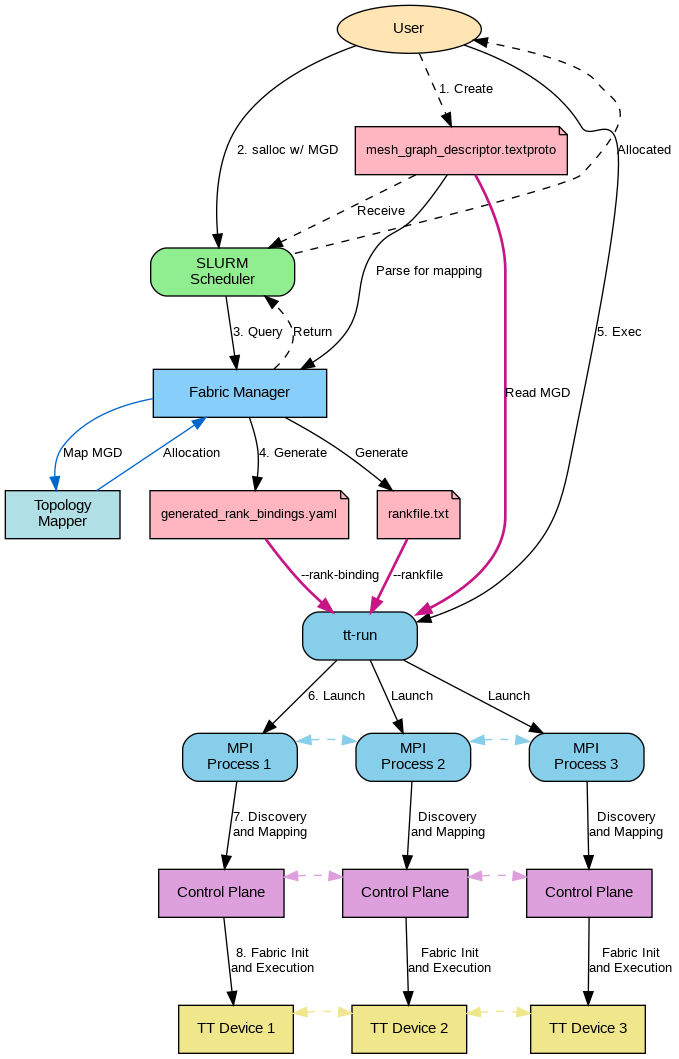
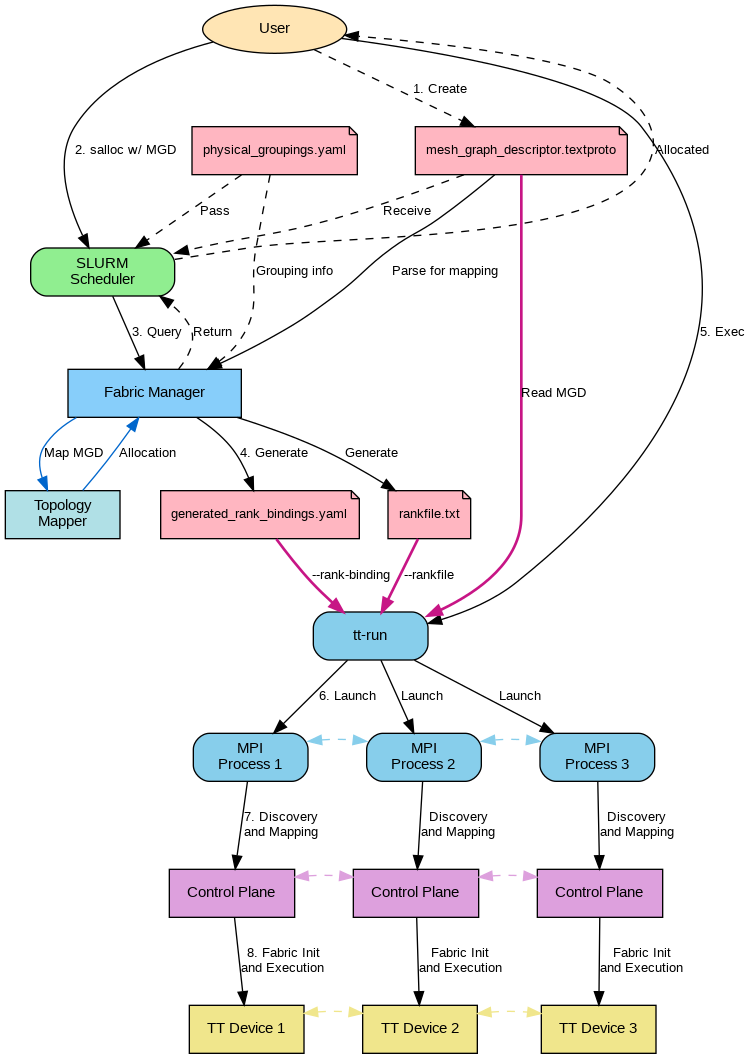
Add topology mapper docs

diff --git a/tech_reports/multi_mesh_fabric_init/generate_diagram3.py b/tech_reports/multi_mesh_fabric_init/generate_diagram3.py
@@ -12,6 +12,7 @@ dot.attr("edge", fontsize="10", fontname="Arial")
 # --- Nodes ---
 
 dot.node("User", "User", shape="ellipse", style="filled", fillcolor="#FFE5B4", width="1.5")
+dot.node("Groupings", "physical_groupings.yaml", shape="note", style="filled", fillcolor="#FFB6C1", fontsize="10")
 dot.node(
     "MGD_Input", "mesh_graph_descriptor.textproto", shape="note", style="filled", fillcolor="#FFB6C1", fontsize="10"
 )
@@ -57,9 +58,10 @@ with dot.subgraph() as r1:
     r1.attr(rank="same")
     r1.node("User")
 
-# Rank 2: MGD
+# Rank 2: Groupings and MGD (Groupings on left)
 with dot.subgraph() as r2:
     r2.attr(rank="same")
+    r2.node("Groupings")
     r2.node("MGD_Input")
 
 # Rank 3: SLURM
@@ -99,8 +101,9 @@ with dot.subgraph() as r8:
     r8.node("Device3")
 
 # --- Vertical Alignment (Invisible) ---
-# Main column: User -> MGD -> SLURM -> FM -> Agents -> Devices
-dot.edge("User", "MGD_Input", style="invis")
+# Main column: User -> Groupings -> MGD -> SLURM -> FM -> Agents -> Devices
+dot.edge("User", "Groupings", style="invis")
+dot.edge("Groupings", "MGD_Input", style="invis")
 dot.edge("MGD_Input", "SLURM", style="invis")
 dot.edge("SLURM", "FM", style="invis")
 dot.edge("FM", "Agent2", style="invis")  # Center agent
@@ -110,6 +113,7 @@ dot.edge("Agent2", "Device2", style="invis")  # Center device
 dot.edge("TTRun", "MPI2", style="invis")  # tt-run above center MPI (maintains vertical spacing)
 
 # Horizontal alignment within groups
+dot.edge("Groupings", "MGD_Input", style="invis")
 dot.edge("Agent1", "Agent2", style="invis")
 dot.edge("Agent2", "Agent3", style="invis")
 dot.edge("MPI1", "MPI2", style="invis")
@@ -126,8 +130,10 @@ dot.edge("Agent3", "TTRun", style="invis")  # Separate left and right columns
 dot.edge("User", "MGD_Input", label="1. Create", style="dashed")
 dot.edge("User", "SLURM", label="2. srun w/ MGD")
 dot.edge("MGD_Input", "SLURM", label="Receive", style="dashed", constraint="false")
+dot.edge("Groupings", "SLURM", label="Pass", style="dashed", constraint="false")
 dot.edge("SLURM", "FM", label="3. Query")
 dot.edge("MGD_Input", "FM", label="Parse for mapping", constraint="false")
+dot.edge("Groupings", "FM", label="Grouping info", style="dashed", constraint="false")
 
 # FM bidirectional gRPC communication with all Fabric Agents
 dot.edge("FM", "Agent1", label="4. gRPC", dir="both", color="#006400", penwidth="2.0")

diff --git a/tech_reports/multi_mesh_fabric_init/generate_diagram2.py b/tech_reports/multi_mesh_fabric_init/generate_diagram2.py
@@ -23,6 +23,7 @@ with dot.subgraph(name="cluster_FM_System") as fm_sys:
     dot.edge("FM", "Topo", label="Map MGD", style="solid", color="#0066CC")
     dot.edge("Topo", "FM", label="Allocation", style="solid", color="#0066CC")
 
+dot.node("Groupings", "physical_groupings.yaml", shape="note", style="filled", fillcolor="#FFB6C1", fontsize="10")
 dot.node(
     "MGD_Input", "mesh_graph_descriptor.textproto", shape="note", style="filled", fillcolor="#FFB6C1", fontsize="10"
 )
@@ -57,9 +58,10 @@ with dot.subgraph() as r1:
     r1.attr(rank="same")
     r1.node("User")
 
-# Rank 2: MGD
+# Rank 2: Groupings and MGD (Groupings on left)
 with dot.subgraph() as r2:
     r2.attr(rank="same")
+    r2.node("Groupings")
     r2.node("MGD_Input")
 
 # Rank 3: SLURM
@@ -105,7 +107,8 @@ with dot.subgraph() as r9:
     r9.node("Device3")
 
 # --- Vertical Alignment (Invisible) ---
-dot.edge("User", "MGD_Input", style="invis")
+dot.edge("User", "Groupings", style="invis")
+dot.edge("Groupings", "MGD_Input", style="invis")
 dot.edge("MGD_Input", "SLURM", style="invis")
 dot.edge("SLURM", "FM", style="invis")
 dot.edge("FM", "GenRankBindings", style="invis")
@@ -115,6 +118,7 @@ dot.edge("MPI1", "CP1", style="invis")
 dot.edge("CP1", "Device1", style="invis")
 
 # Keep multiple instances aligned
+dot.edge("Groupings", "MGD_Input", style="invis")
 dot.edge("MPI1", "MPI2", style="invis")
 dot.edge("MPI2", "MPI3", style="invis")
 dot.edge("CP1", "CP2", style="invis")
@@ -128,8 +132,10 @@ dot.edge("Device2", "Device3", style="invis")
 dot.edge("User", "MGD_Input", label="1. Create", style="dashed")
 dot.edge("User", "SLURM", label="2. salloc w/ MGD")
 dot.edge("MGD_Input", "SLURM", label="Receive", style="dashed", constraint="false")
+dot.edge("Groupings", "SLURM", label="Pass", style="dashed", constraint="false")
 dot.edge("SLURM", "FM", label="3. Query")
 dot.edge("MGD_Input", "FM", label="Parse for mapping", constraint="false")
+dot.edge("Groupings", "FM", label="Grouping info", style="dashed", constraint="false")
 dot.edge("FM", "GenRankBindings", label="4. Generate")
 dot.edge("FM", "Rankfile", label="Generate")
 dot.edge("FM", "SLURM", label="Return", style="dashed", constraint="false")

diff --git a/tech_reports/multi_mesh_fabric_init/multi_mesh_fabric_init_design.md b/tech_reports/multi_mesh_fabric_init/multi_mesh_fabric_init_design.md
@@ -116,14 +116,20 @@ tt-run \
 
 ### 3.2 Flow Diagram
 
-![Current Flow Diagram](diagram1_current_flow.png)
+![Current Flow Diagram](./diagram1_current_flow.png)
 
 ### 3.3 Explanation
-1.  **Allocation:** User requests nodes via SLURM (`salloc` or `srun`).
-2.  **Configuration:** User creates a `rank_bindings.yaml` that maps MPI ranks to specific `mesh_id`s and sets `TT_VISIBLE_DEVICES`.
-3.  **Execution:** User runs `tt-run`.
-    *   `tt-run --rank-binding rank_bindings.yaml ./build/test/tt_metal/my_app`
-4.  **Initialization:** `tt-run` launches processes. Each process initializes the Metal backend. Rank bindings determine the pipeline.
+1.  **Allocation (Step 1):** User requests nodes via SLURM (`salloc`). SLURM allocates nodes and returns them to the user.
+2.  **Configuration (Step 2):** User manually creates all configuration files:
+    *   `rank_bindings.yaml` - maps MPI ranks to `mesh_id`s and `TT_VISIBLE_DEVICES`
+    *   `mesh_graph_descriptor.textproto` - defines the logical topology
+    *   `rankfile.txt` - specifies MPI rank to host mappings
+    *   `TT_VISIBLE_DEVICES` - environment variable defining visible devices
+3.  **Execution (Step 3):** User executes `tt-run`, supplying all configuration files:
+    *   `tt-run --rank-binding rank_bindings.yaml --rankfile rankfile.txt ./build/test/tt_metal/my_app`
+4.  **Launch (Step 4):** `tt-run` launches multiple MPI processes (one per rank).
+5.  **Discovery and Mapping (Step 5):** Each MPI process initializes its Control Plane instance. The Control Planes perform discovery and mapping of the fabric topology. Control Planes communicate with each other to coordinate.
+6.  **Fabric Init and Execution (Step 6):** Each Control Plane programs its corresponding TT Device. Control Planes communicate bidirectionally, and TT Devices communicate with each other. There is no global validation - each Control Plane operates independently based on the manually provided rank bindings.
 
 ---
 
@@ -212,17 +218,124 @@ tt-run \
   ./bh_blitz_decode
 ```
 
-### 5.2 Flow Diagram
+### 5.2 Physical Groupings File (Phase 1 Use)
 
-![Phase 1 Flow Diagram](diagram2_phase1_flow.png)
+FM consumes a Physical Groupings file, which defines the hierarchical structure of physical resources (meshes, pods, superpods, clusters) in the cluster. This file is provided by the cluster administrator and is used by FM to understand which subsets of ASICs can be used as candidate physical meshes for a given logical mesh in the MGD.
 
-### 5.3 Explanation
-1.  **FM Initialization:** FM runs as a persistent daemon and discovers the whole cluster's physical graph.
-2.  **Allocation Request:** User submits a job with a Mesh Graph Descriptor (MGD).
-3.  **Topology Resolution:** SLURM plugin queries FM. FM uses the **Topology Mapper** (from PR 36174) to find a valid placement for the MGD.
-4.  **Binding Generation:** FM returns the allocation. This allocation is used to auto-generate a `rank_bindings.yaml` (removing manual error).
-5.  **Execution:** `tt-run` is invoked with the generated bindings.
-6.  **Runtime:** Metal initializes. The Control Plane uses the MGD and bindings. It performs validation using the PR 36174 mapper logic locally, while inter-mesh connections are dictated by the valid rank bindings provided by FM.
+The groupings file is conceptually structured as follows:
+
+```yaml
+# physical_groupings.yaml (conceptual)
+# Base layer group definitions: always in terms of ASIC IDs.
+
+asic_groups:
+  # Arbitrary group IDs; names are opaque labels, not tied to hosts or meshes.
+  - id: 0
+    asic_ids: [10001, 10002, 10003, 10004, 10005, 10006, 10007, 10008]
+  - id: 1
+    asic_ids: [10101, 10102, 10103, 10104, 10105, 10106, 10107, 10108]
+  - id: 2
+    asic_ids: [10201, 10202, 10203, 10204, 10205, 10206, 10207, 10208]
+  - id: 3
+    asic_ids: [10301, 10302, 10303, 10304, 10305, 10306, 10307, 10308]
+
+# Higher levels reference lower levels only by group IDs; the labels here are descriptive only.
+
+mesh_groups:
+  - id: 10
+    # This mesh is composed of asic_group 0
+    group_ids: [0]
+  - id: 11
+    # This mesh is composed of asic_group 1
+    group_ids: [1]
+
+pod_groups:
+  - id: 20
+    group_ids: [10, 11]
+
+superpod_groups:
+  - id: 30
+    group_ids: [20]
+
+cluster_groups:
+  - id: 40
+    group_ids: [30]
+```
+
+This is complementary to the Physical System Descriptor (PSD):
+
+*   **PSD**: Flat graph of all ASICs + links.
+*   **Groupings**: Allowed carve‑outs (meshes/pods/superpods/clusters) over that flat graph.
+
+FM uses both to build the PhysicalMultiMeshGraph consumed by the multi‑mesh solver. In Phase 1, FM treats the groupings file as the source of truth for:
+
+*   Which subsets of ASICs can be used as candidate physical meshes for a given logical mesh in the MGD.
+*   How those meshes can be composed into pods and superpods that match higher-level graph_descriptors.
+*   Which placement constraints must be enforced (e.g., avoid splitting dual-chip boards or hosts unless explicitly allowed) when solving multi-mesh mappings.
+*   Narrowing the search space for the topology solver so multi-mesh mapping only considers physically valid groupings.
+
+The groupings file is provided by SLURM (or the cluster administrator) to FM at startup or during placement queries.
+
+### 5.3 Flow Diagram
+
+![Phase 1 Flow Diagram](./diagram2_phase1_flow.png)
+
+### 5.4 Explanation
+1.  **Create MGD (Step 1):**
+    *   User creates the `mesh_graph_descriptor.textproto` file
+    *   File defines the logical topology (mesh descriptors, graph descriptors, top-level instance)
+
+2.  **Allocation Request (Step 2):**
+    *   User submits job to SLURM with MGD (`salloc w/ MGD`)
+    *   MGD file is provided to SLURM scheduler
+    *   Physical Groupings file (`physical_groupings.yaml`) is passed to SLURM scheduler
+
+3.  **Physical Groupings File:**
+    *   Cluster-wide configuration file (managed by cluster administrator)
+    *   Defines hierarchical structure: meshes, pods, superpods, clusters
+    *   Specifies which subsets of ASICs can be used as candidate physical meshes
+    *   FM loads this file at startup
+    *   Used together with Physical System Descriptor (PSD) to build PhysicalMultiMeshGraph
+    *   Constrains placement decisions
+
+4.  **Query and Parse (Step 3):**
+    *   SLURM queries Fabric Manager for placement
+    *   SLURM provides MGD to Fabric Manager
+    *   Fabric Manager parses MGD for mapping
+    *   Fabric Manager uses Physical Groupings file to understand physical cluster hierarchy
+    *   Fabric Manager uses Topology Mapper (from PR 36174) to solve topology
+    *   Topology Mapper uses groupings information to find valid placement
+
+5.  **Generate Configuration (Step 4):**
+    *   Fabric Manager auto-generates `generated_rank_bindings.yaml`
+        *   Maps MPI ranks to physical resources
+    *   Fabric Manager auto-generates `rankfile.txt`
+        *   Maps MPI rank to host mappings
+    *   Allocation details returned to SLURM
+    *   SLURM notifies user of allocation
+
+6.  **Execution (Step 5):**
+    *   User executes `tt-run` command
+    *   Supplies generated `generated_rank_bindings.yaml` file
+    *   Supplies generated `rankfile.txt` file
+    *   Supplies MGD path
+    *   Example: `tt-run --rank-binding generated_rank_bindings.yaml --rankfile rankfile.txt ./app`
+
+7.  **Launch (Step 6):**
+    *   `tt-run` launches multiple MPI processes
+    *   One MPI process per rank
+
+8.  **Discovery and Mapping (Step 7):**
+    *   Each MPI process initializes its Control Plane instance
+    *   Control Planes perform discovery and mapping
+    *   Uses MGD and generated bindings
+    *   Control Planes communicate bidirectionally with each other
+
+9.  **Fabric Init and Execution (Step 8):**
+    *   Each Control Plane programs its corresponding TT Device
+    *   Control Planes communicate bidirectionally with each other
+    *   TT Devices communicate with each other
+    *   Control Plane performs local validation using PR 36174 mapper logic
 
 ---
 
@@ -247,35 +360,81 @@ No rank bindings file is needed.
 tt-run --fabric-manager ./bh_blitz_decode
 ```
 
-### 6.2 Flow Diagram
+### 6.2 Physical Groupings File (Phase 2 Use)
 
-![Phase 2 Flow Diagram](diagram3_phase2_flow.png)
+In Phase 2, FM continues to use the Physical Groupings file as described in Phase 1 (Section 5.2). The groupings file remains the source of truth for understanding the physical cluster hierarchy and constraining placement decisions.
 
-### 6.3 Explanation
+FM maintains the global Physical System Descriptor (PSD) and PhysicalMultiMeshGraph for the entire cluster, which are built from both the flat PSD and the hierarchical groupings file. When FM receives a placement query from SLURM, it:
 
-#### 1. Allocation & Placement (SLURM + Topology Mapper)
-The user initiates the job using SLURM.
-```bash
-# Request resources for the topology
-srun --partition galaxy --comment="mgd=my_graph.proto" --nodes=4 ...
-```
-SLURM consults the Fabric Manager. The FM uses the **Topology Mapper** to find a valid placement for the requested MGD on the physical cluster. **Note:** The user does not create any rank binding files; the configuration is implicit.
+*   Loads the Physical Groupings file (if not already loaded) to understand the cluster structure.
+*   Uses the groupings to build the PhysicalMultiMeshGraph that represents valid physical meshes, pods, superpods, and clusters.
+*   Applies the multi-mesh solver to map the logical MGD onto these physical groupings.
+*   Ensures that placement decisions respect the constraints defined in the groupings file (e.g., not splitting dual-chip boards unless explicitly allowed).
 
-#### 2. Fabric Initialization (Fabric Manager)
-Once the allocation is determined, but *before* the user's application runs, the Fabric Manager takes control.
-*   **Binding Generation:** FM internally generates the rank bindings and determines the correct `TT_VISIBLE_DEVICES` for each rank based on the topology mapping.
-*   **Device Programming:** FM initializes the fabric on the allocated chips. It compiles and uploads router binaries and configures routing tables. This step may utilize a "Control Plane" process running via MPI "under the hood" to handle the low-level device interactions.
-*   **Readiness:** The fabric is now fully configured and ready for traffic.
+The groupings file is a cluster-wide configuration file that exists independently (typically managed by the cluster administrator), similar to Phase 1. FM loads this file at startup and uses it for all placement queries.
 
-#### 3. Execution (User Application)
-The user launches the application.
-```bash
-tt-run --fabric-manager ./bh_blitz_decode
-```
+### 6.3 Flow Diagram
 
-When the application starts, it seamlessly picks up the configuration from Step 2:
-1.  **Context Init:** The Control Plane (CP) inside the user app connects to FM using the session ID.
-2.  **Handshake:** CP sends its **MPI Rank** to FM.
-3.  **Resolution:** FM returns the pre-calculated device mapping (ASIC IDs) from Step 2.
-4.  **Visibility:** The CP internally configures `TT_VISIBLE_DEVICES` (or equivalent) so the process only sees its assigned devices.
-5.  **Proceed:** Since the fabric was initialized in Step 2, the CP simply verifies the state and the application proceeds.
+![Phase 2 Flow Diagram](./diagram3_phase2_flow.png)
+
+### 6.4 Explanation
+
+#### 1. Create MGD (Step 1)
+*   User creates the `mesh_graph_descriptor.textproto` file
+*   File defines the logical topology (mesh descriptors, graph descriptors, top-level instance)
+
+#### 2. Allocation Request (Step 2)
+*   User submits job to SLURM with MGD (`srun w/ MGD`)
+*   MGD file is provided to SLURM scheduler
+*   Physical Groupings file (`physical_groupings.yaml`) is passed to SLURM scheduler
+
+#### 3. Physical Groupings File
+*   Cluster-wide configuration file (managed by cluster administrator)
+*   Defines hierarchical structure: meshes, pods, superpods, clusters
+*   Specifies which subsets of ASICs can be used as candidate physical meshes
+*   FM loads this file at startup
+*   Used together with Physical System Descriptor (PSD) to build PhysicalMultiMeshGraph
+*   Constrains placement decisions
+
+#### 4. Query and Parse (Step 3)
+*   SLURM queries Fabric Manager for placement
+*   SLURM provides MGD to Fabric Manager
+*   Fabric Manager parses MGD for mapping
+*   Fabric Manager uses Physical Groupings file to understand physical cluster hierarchy
+*   Fabric Manager uses Topology Mapper to solve topology
+*   Topology Mapper uses groupings information to find valid placement
+
+#### 5. Discovery and Telemetry (Step 4)
+*   Fabric Manager communicates bidirectionally with multiple Fabric Agents via gRPC
+*   Communication enables discovery of physical fabric topology
+*   Communication enables collection of telemetry data from each agent
+*   Fabric Manager coordinates discovery and telemetry collection across all agents
+
+#### 6. Fabric Init (Step 5)
+*   Each Fabric Agent performs fabric initialization on its corresponding TT Device (Unified Kernel)
+*   Programming routing tables
+*   Configuring the unified kernel
+*   Preparing the device for execution
+*   Devices are now ready for use
+
+#### 7. Execution (Step 6)
+*   User executes `tt-run` command
+*   No rank bindings file needed
+*   Example: `tt-run --fabric-manager ./bh_blitz_decode`
+
+#### 8. Handshake (Step 7)
+*   `tt-run` performs bidirectional handshake with Fabric Manager
+*   Obtains session configuration
+*   Obtains device mappings
+
+#### 9. Launch MPI Processes (Step 8)
+*   `tt-run` launches multiple MPI processes
+*   One MPI process per rank
+*   Each MPI process will run directly on its assigned device
+
+#### 10. Execution (Step 9)
+*   Each MPI process executes on its corresponding TT Device
+*   TT Devices communicate bidirectionally with each other
+*   Fabric was fully initialized in Steps 4-5
+*   MPI processes can immediately begin execution
+*   No additional Control Plane initialization needed
